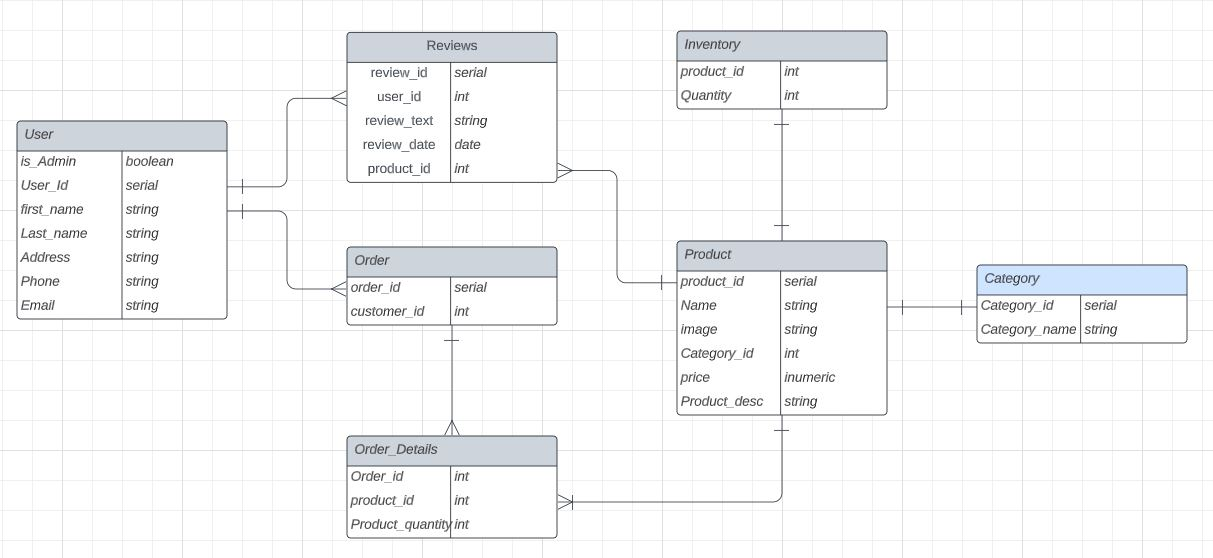
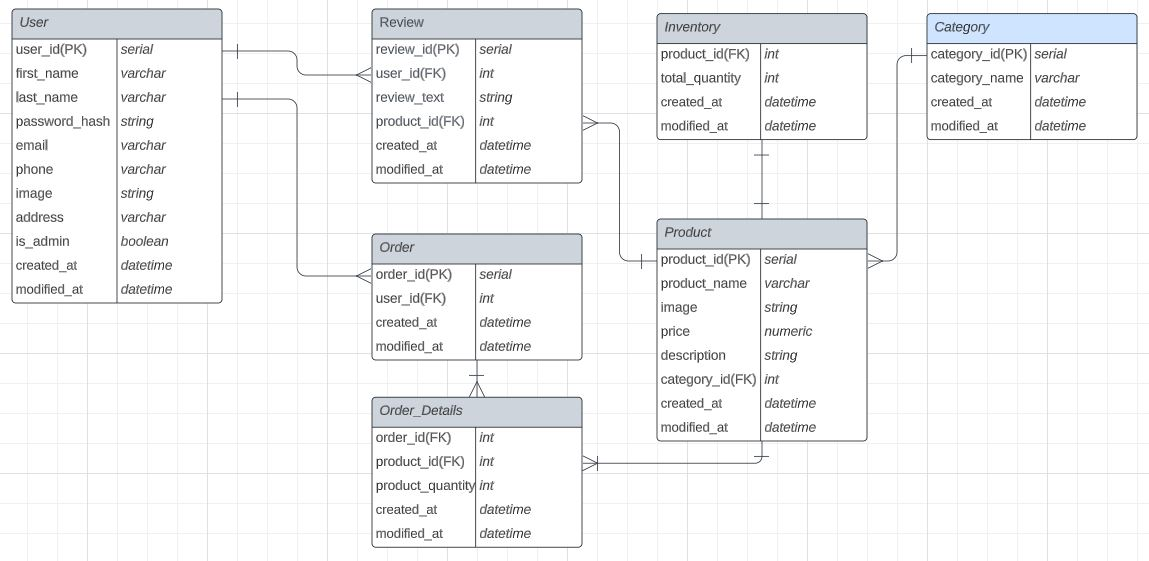
Fixes to ERD and REST API

diff --git a/RESTAPIArchitecture.md b/RESTAPIArchitecture.md
@@ -29,7 +29,7 @@ Response:
         "first_name": "Nicolas",
         "last_name": "Nicolas",
         "image": "https://api.lorem.space/image/face?w=640&h=480&r=867",
-        "password": "1234",
[1 lines of base64/hex data omitted]
         "email": "nico@gmail.com",
         "phone": "1234567890",
         "address": "Street Name 32",
@@ -52,7 +52,7 @@ Response:
         "first_name": "Nicolas",
         "last_name": "Nicolas",
         "image": "https://api.lorem.space/image/face?w=640&h=480&r=867",
-        "password": "1234",
[1 lines of base64/hex data omitted]
         "email": "nico@gmail.com",
         "phone": "1234567890",
         "address": "Street Name 32",
@@ -84,7 +84,7 @@ Response:
         "first_name": "New",
         "last_name": "Name",
         "image": "https://api.lorem.space/image/face?w=640&h=480&r=867",
-        "password": "12345",
[1 lines of base64/hex data omitted]
         "email": "newemail@gmail.com",
         "phone": "1234567890",
         "address": "New Street Av 14",
@@ -119,7 +119,7 @@ Response:
             "first_name": "Nicolas",
             "last_name": "Nicolas",
             "image": "https://api.lorem.space/image/face?w=640&h=480&r=867",
-            "password": "1234",
[1 lines of base64/hex data omitted]
             "email": "nico@gmail.com",
             "phone": "1234567890",
             "address": "Street Name 32",
